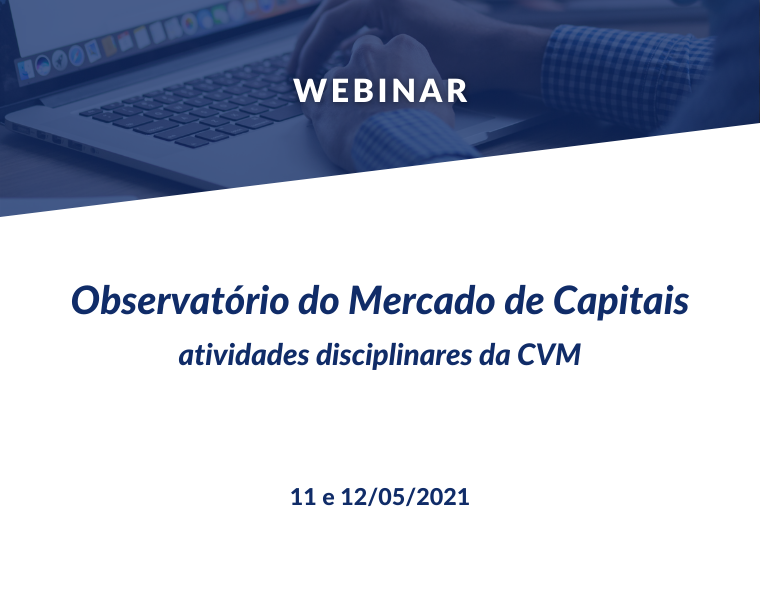
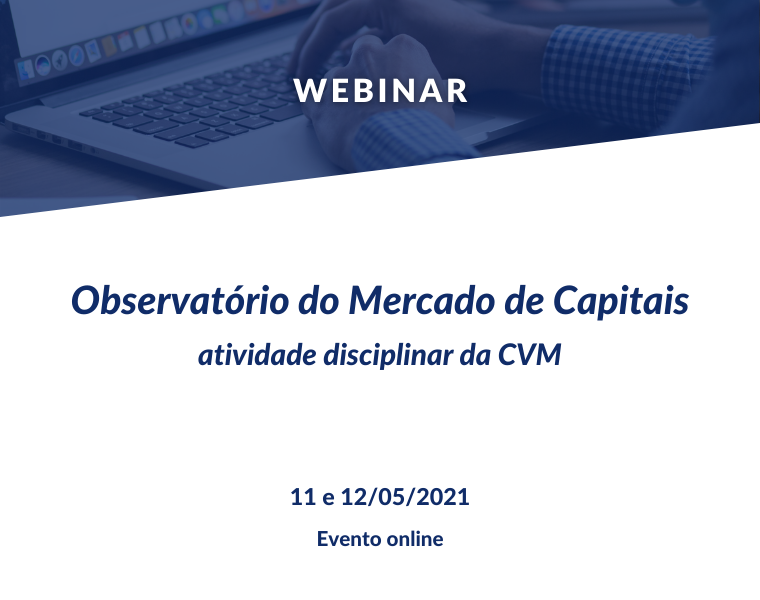
ajuste de imagem - evento webinar 3

Changed region(s): [[0.2421, 0.57, 0.7868, 0.63], [0.4237, 0.87, 0.575, 0.93]]

diff --git a/content/eventos/webinar-03.md b/content/eventos/webinar-03.md
@@ -4,7 +4,7 @@ date: "2021-05-11"
 tipoevento: ["Passado"]
 banner: "img/eventos/webinar-03.png"
 author: ["Bárbara"]
-summary: "Webinar sobre a divulgaçãdo do Observatório do Mercado de Capitais."
+summary: "Webinar sobre a divulgaçãdo do Observatório do Mercado de Capitais: atividade disciplinar da CVM."
 draft: false
 publico: "Aberto"
 horario: "9h"
